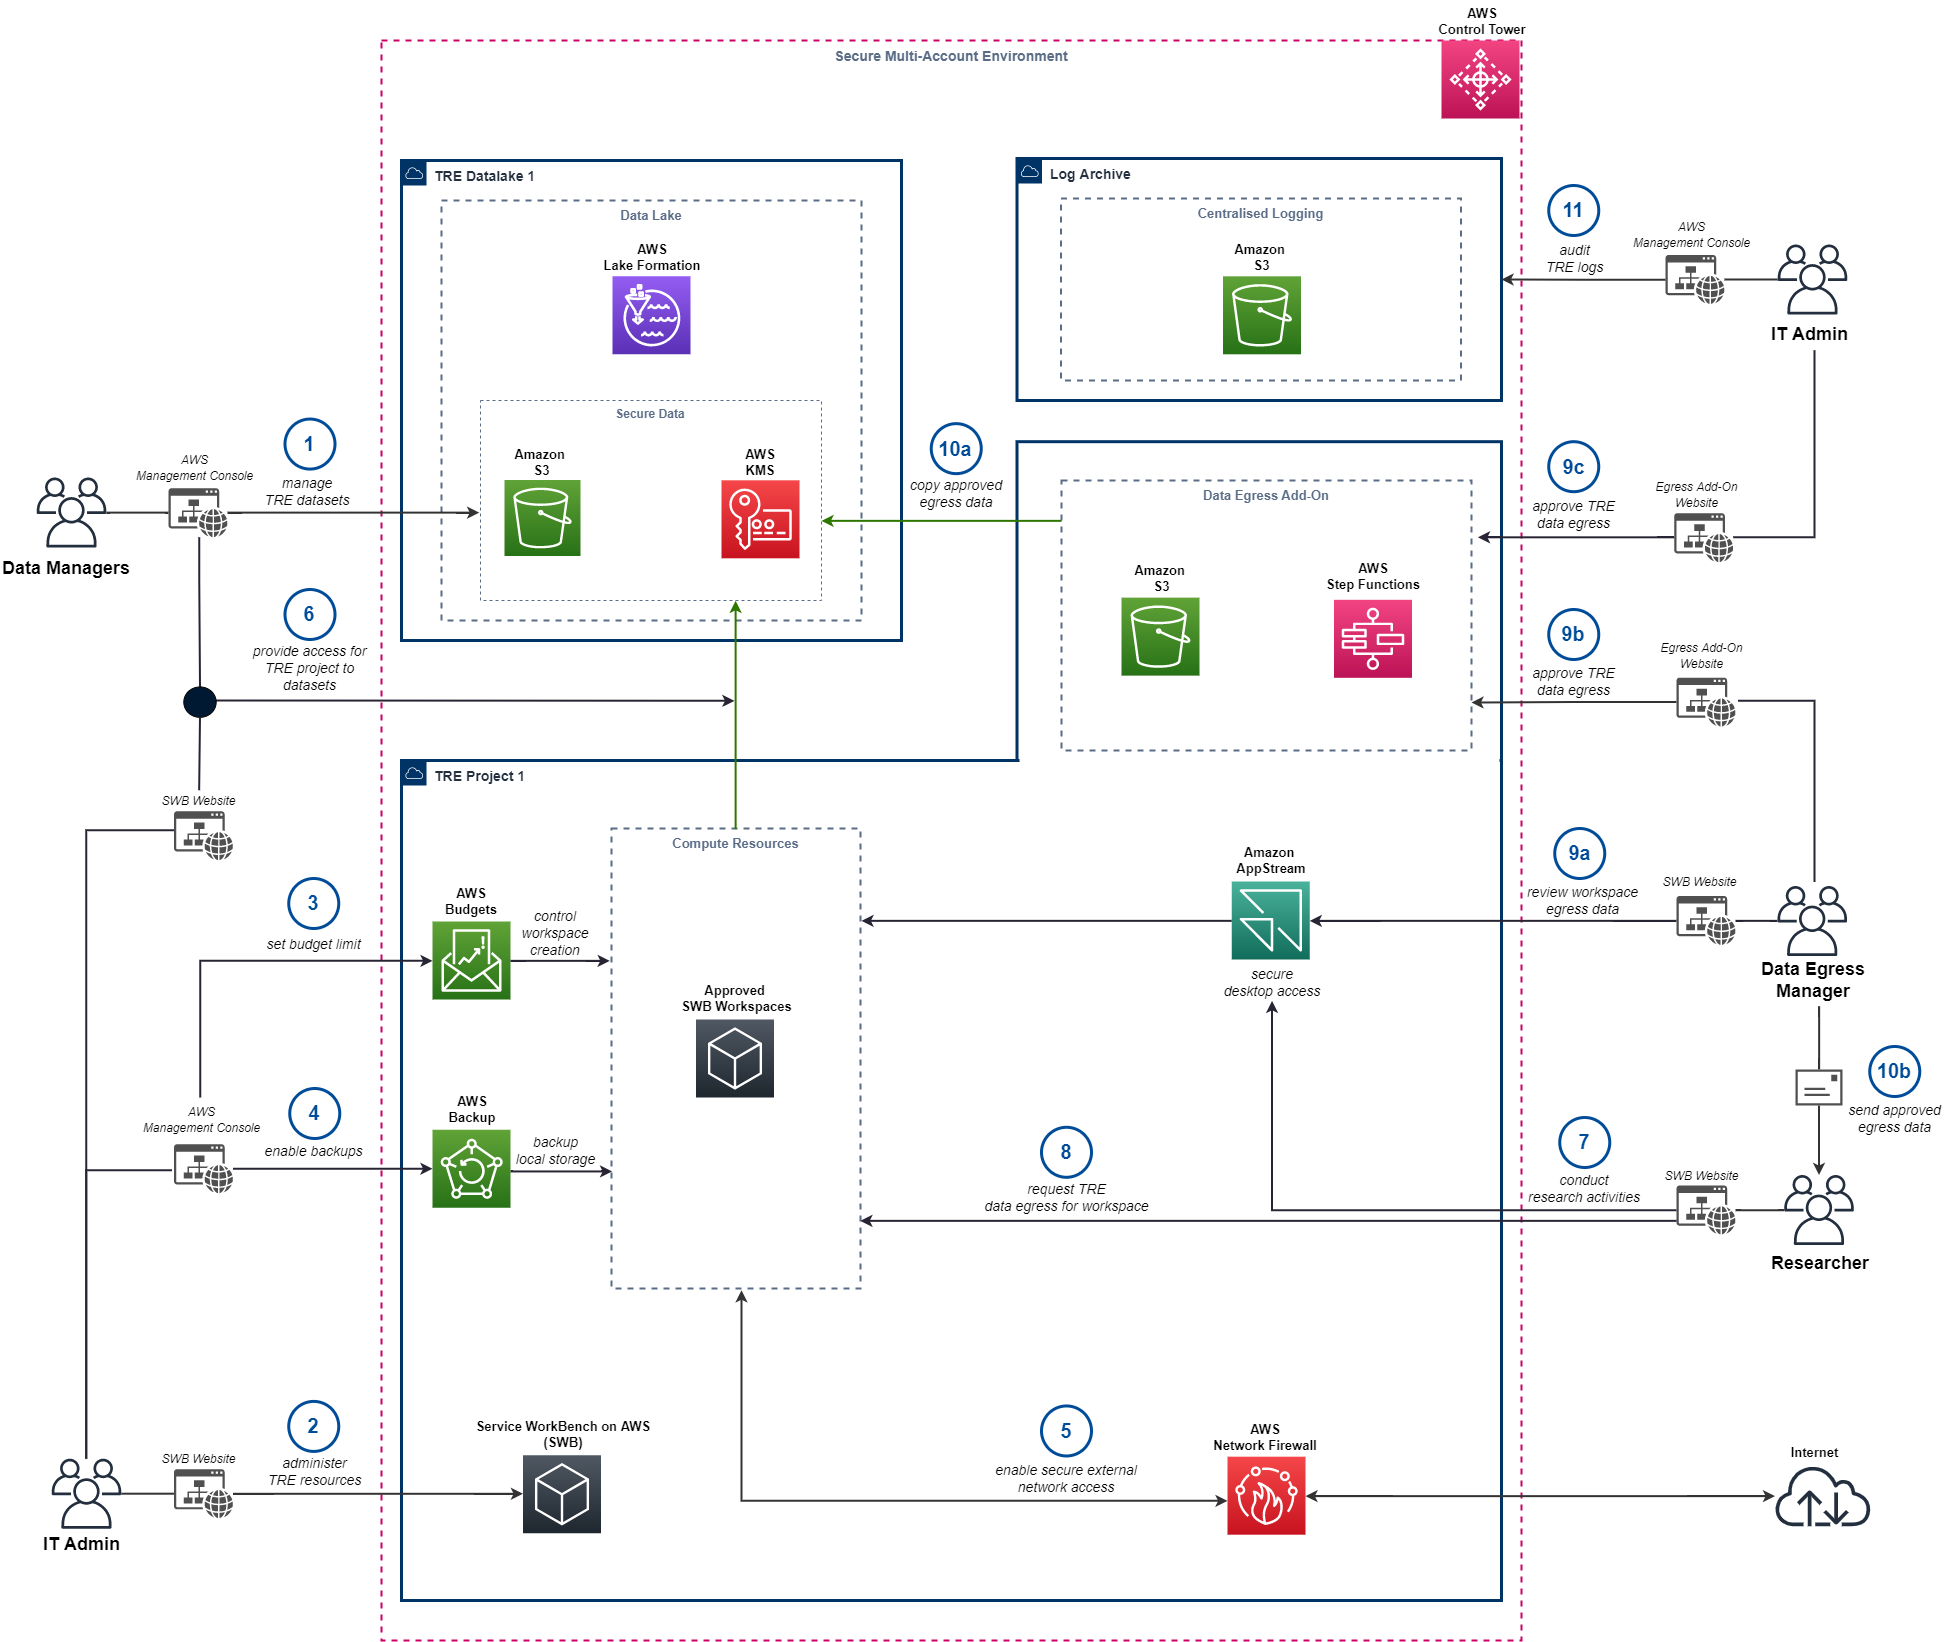
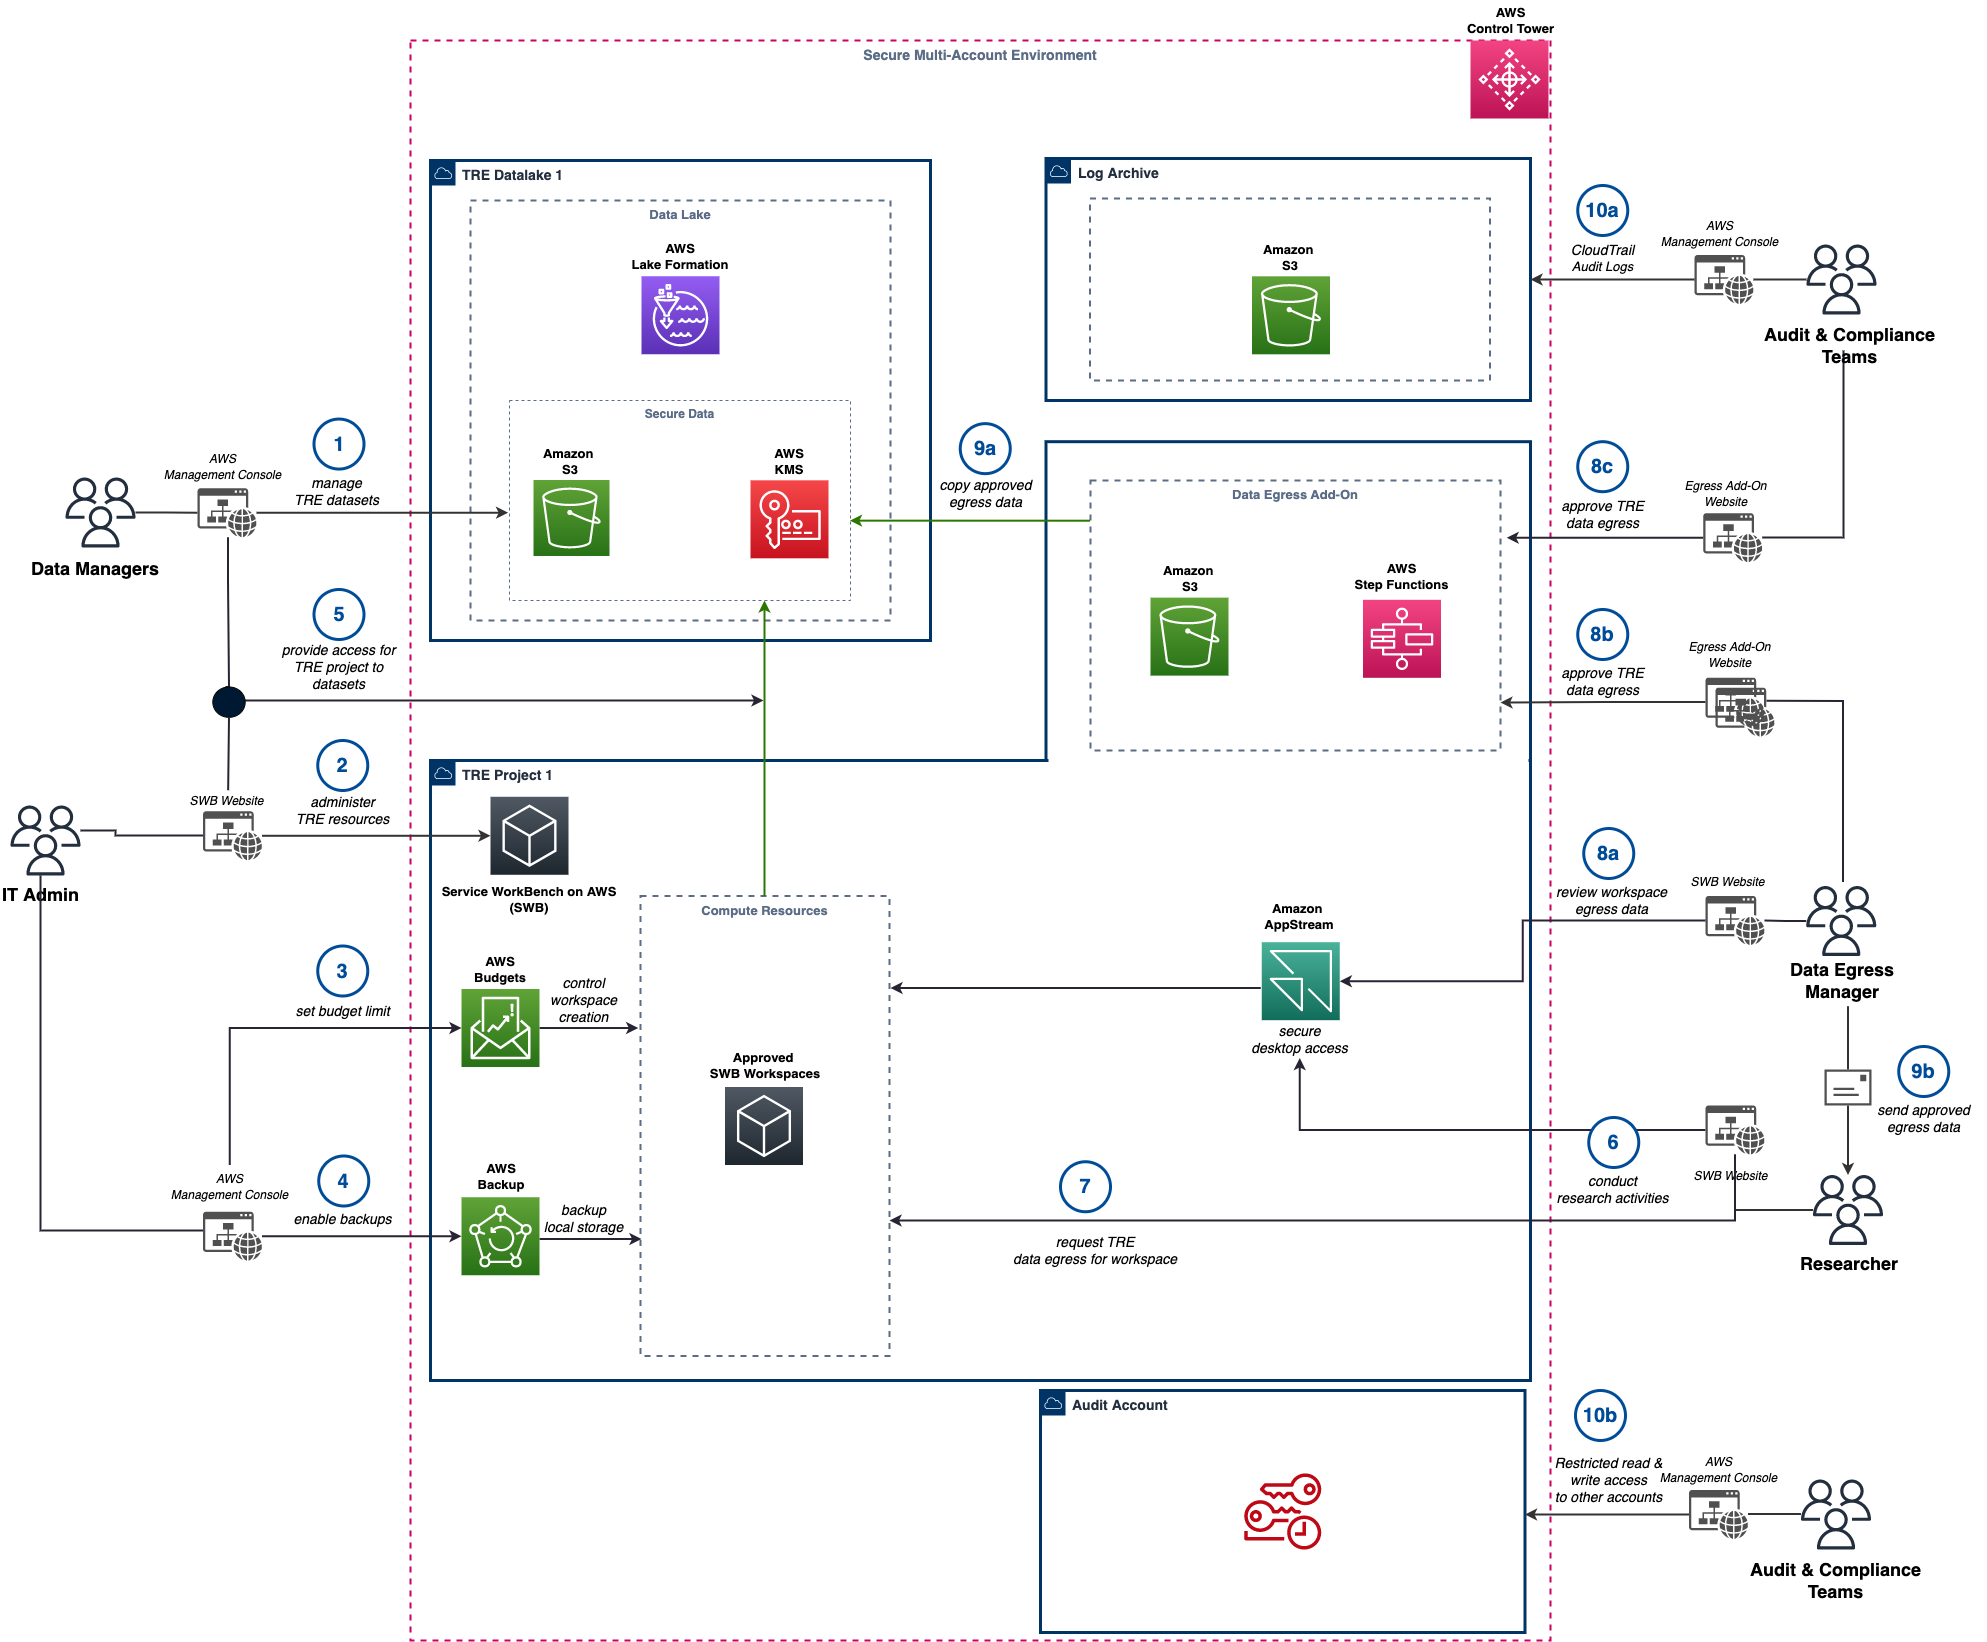
Updated Arch documentation

diff --git a/doc/architecture/Architecture.md b/doc/architecture/Architecture.md
@@ -2,18 +2,12 @@
 
 ---
 
-## TREEHOOSE (TRE)
+This document explains the high level architecture of
+the Trusted Research Environment that would be deployed
+on AWS Cloud following the installation
+steps in this repository.
 
----
-
-TREEHOOSE is the Trusted Research Environment (TRE) implementation
-that will be deployed for each research project.
-Deploying the solution with the **default parameters**
-builds the following environment in the AWS Cloud.
-
-![TREEHOOSE Architecture](../../res/images/TREEHOOSE-architecture.png)
-
-### Overview
+## Overview
 
 ---
 
@@ -31,11 +25,51 @@ provides optional add-on components to enable
 - Workspace backups
 - Budget controls
 
-### Solution Overview
+TREEHOOSE is the Trusted Research Environment (TRE) implementation
+that will be deployed for each research project.
+Deploying the solution with the **default parameters**
+builds the following environment in AWS Cloud.
+
+![TREEHOOSE Architecture](../../res/images/TREEHOOSE-architecture.png)
+
+The solution uses Infrastructure as Code for deployment.
+Additional sections in this document provide additional details about each component. Below is a brief explaination
+of the numbered legends in the diagram.
+
+1. TRE Data Managers use AWS Management console to upload
+   data to the TRE Data Lake to be used for research.
+1. IT Administrators use Service Workbench web applications
+   to administer resources in the TRE environment.
+1. The budgets add-on is used to set budget limits for the TRE
+   environment. IT admins can set the budget and any actions
+   to be taken when the budget thresholds are breached.
+1. Backup functionality for research workspaces can also be
+   enabled for researcher workspaces. IT Admins can monitor
+   these through AWS Backup.
+1. Data Managers can provide researchers access to relevant
+   data sets from the data lake.
+1. Researchers can create approved workspaces through Service Workbench Web application.
+   They get secure access to compute resources using
+   Amazon AppStream. Details of connecting to workspaces is available within the Web App.
+1. On research completion the researcher can request egress of
+   research results.
+1. The egress request is processed through an add-on app
+   with a comprehensive review process with multiple approvers
+   before the data is available to be downloaded.
+1. Egress requests that are approved, result in creation of
+  downloadable version of the data that Data Egress Manager
+  can share with Researcher.
+1. Audit & Compliance teams get full visibility into all
+    user activities resulting in AWS API calls through centralised
+    CloudTrail logs. Additionally, they get breakglass
+    access to all TRE projects/accounts in the TRE through
+    a Lambda function role in Audit account.
+
+## Component Overview
 
 ---
 
-#### *AWS Control Tower*
+### *AWS Control Tower*
 
 ---
 
@@ -53,7 +87,7 @@ that will be setup by using the TREEHOOSE solution.
 
 ![Multi-account structure](../../res/images/multi-account-setup.png)
 
-#### *Service Workbench on AWS Solution*
+### *Service Workbench on AWS Solution*
 
 ---
 
@@ -73,7 +107,7 @@ Key Components :
   (more services as desired; this is customisable by providing Service Catalog templates).
 - For the secure access environment: AWS AppStream 2.0
 
-#### *Datalake*
+### *Datalake*
 
 ---
 
@@ -90,7 +124,7 @@ Key Components :
 
 - AWS Lake Formation
 
-#### *Data Egress Application*
+### *Data Egress Application*
 
 ---
 
@@ -117,7 +151,7 @@ Key Components :
 - For the backend: AWS Step Functions, Amazon EFS,
   AWS Lambda, Amazon DynamoDB, Amazon SES, Amazon S3, Amazon SNS, Amazon Cognito
 
-#### *Workspace backup*
+### *Workspace backup*
 
 ---
 
@@ -152,7 +186,7 @@ Key Components:
 - For the backend: AWS Step Functions,
   AWS Lambda, Amazon CloudWatch Events, AWS CloudForamtion, AWS Backup, Amazon S3
 
-#### *Budget controls*
+### *Budget controls*
 
 ---
 
